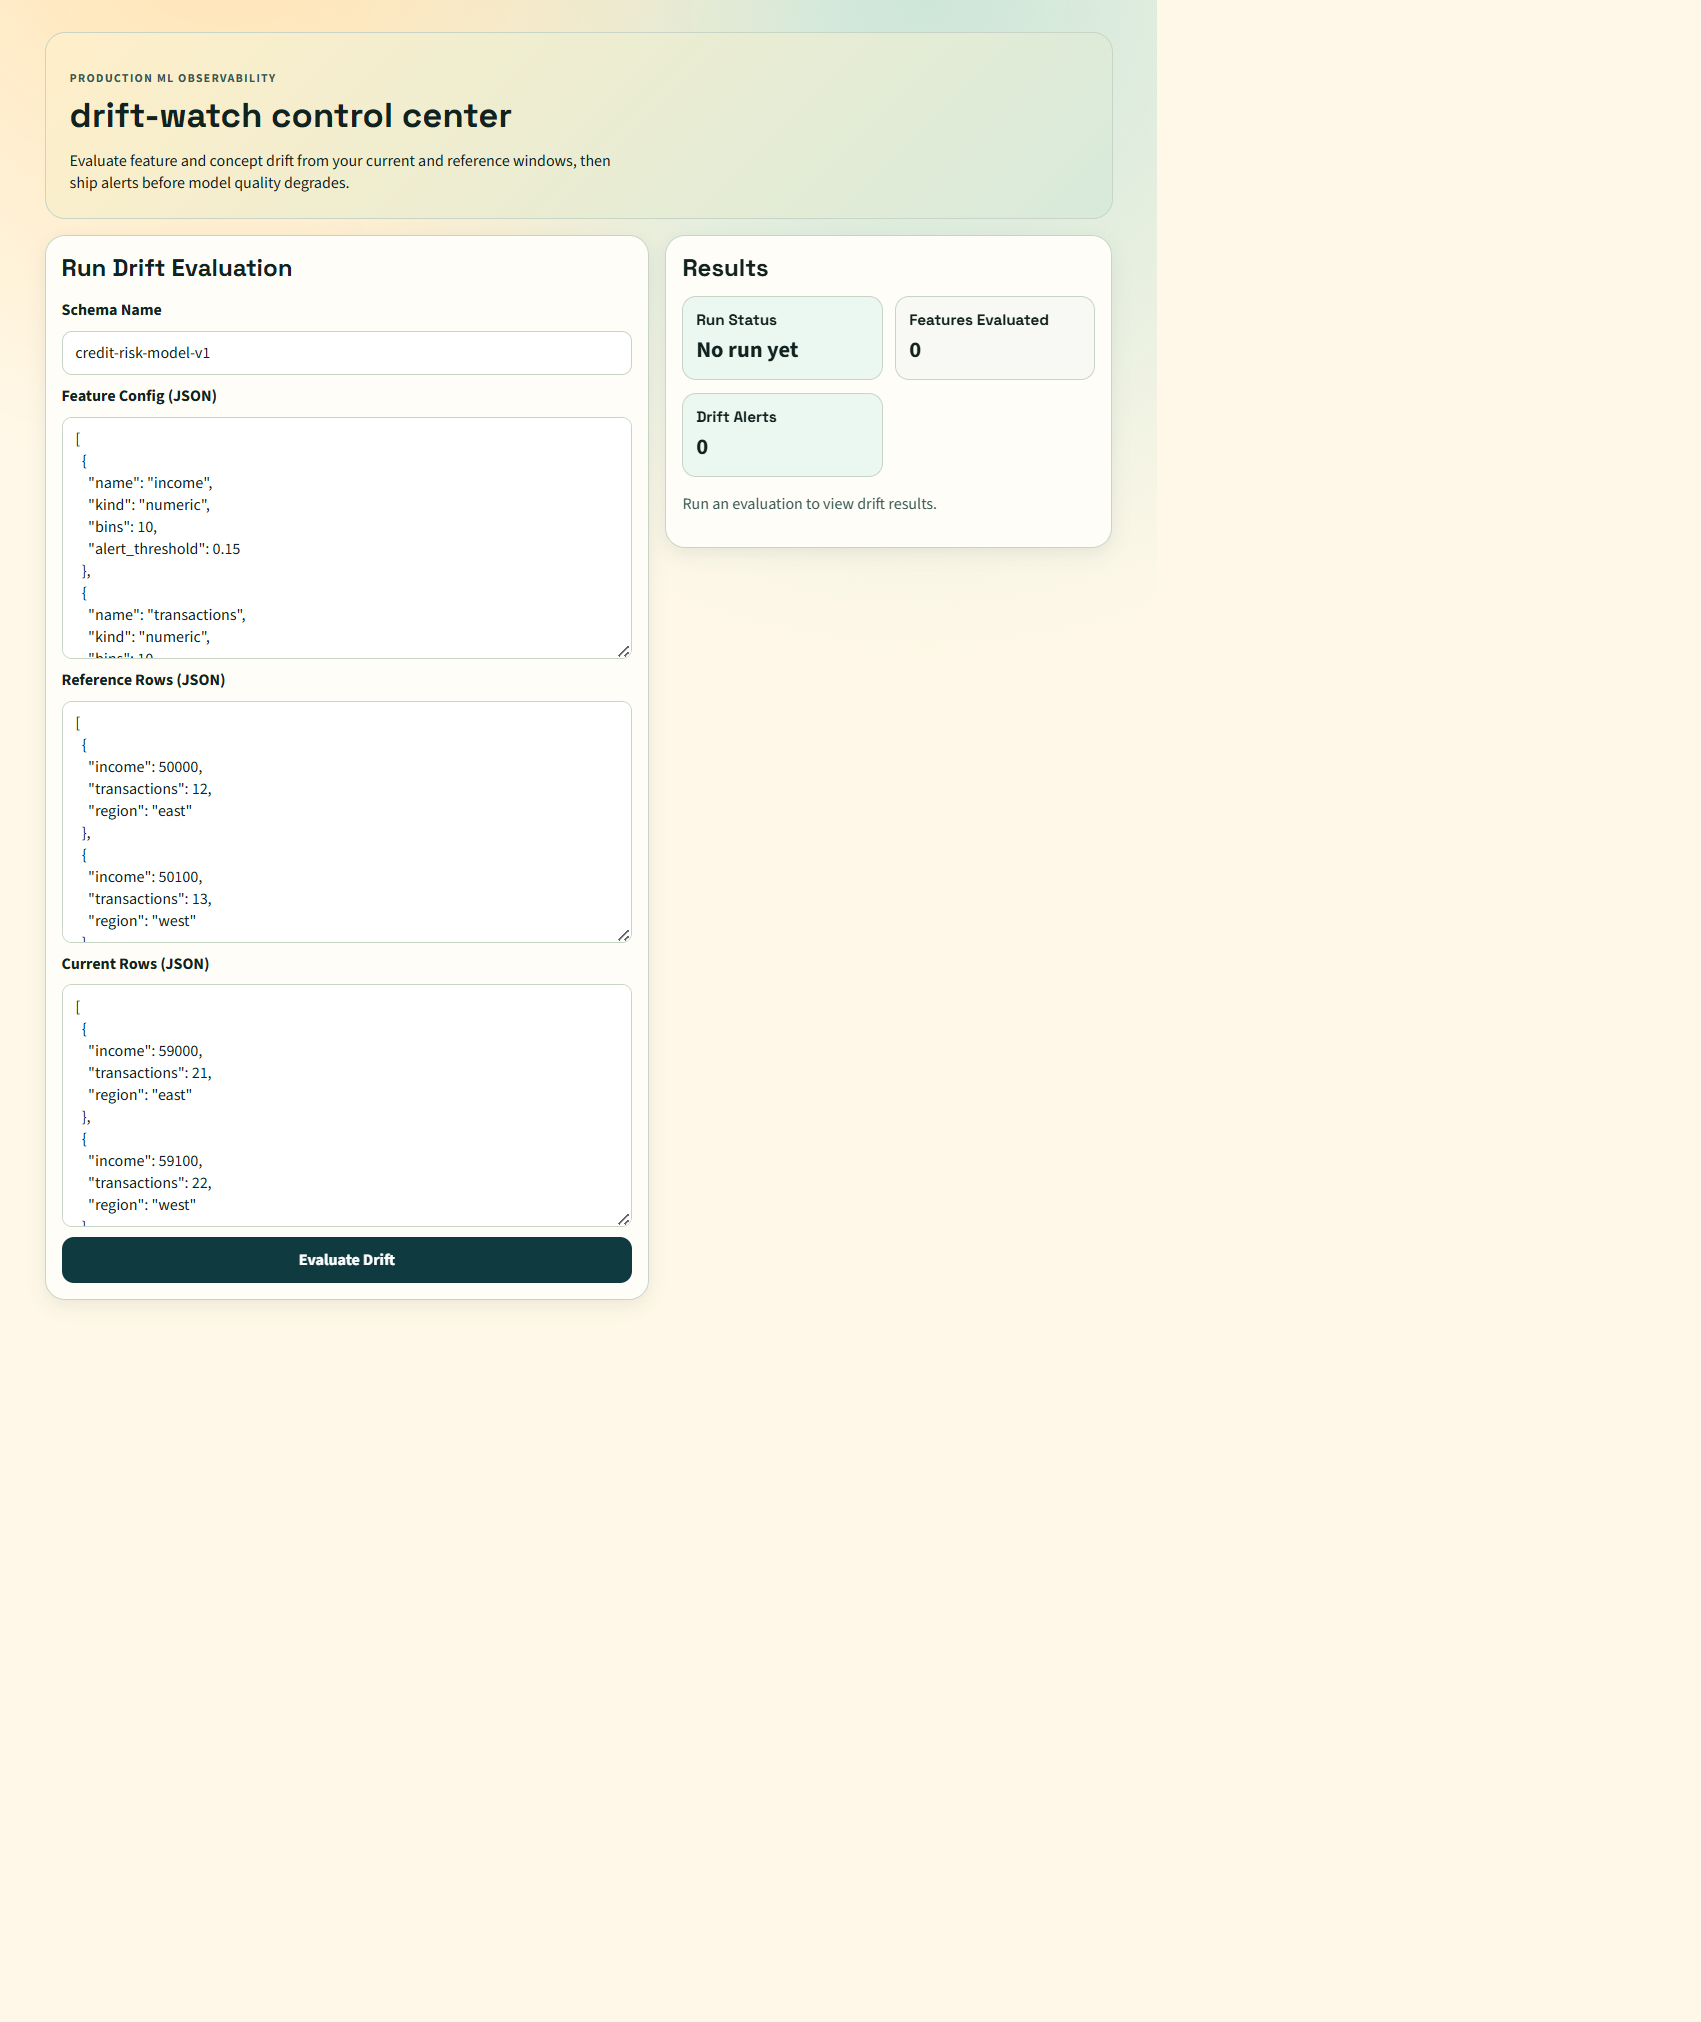
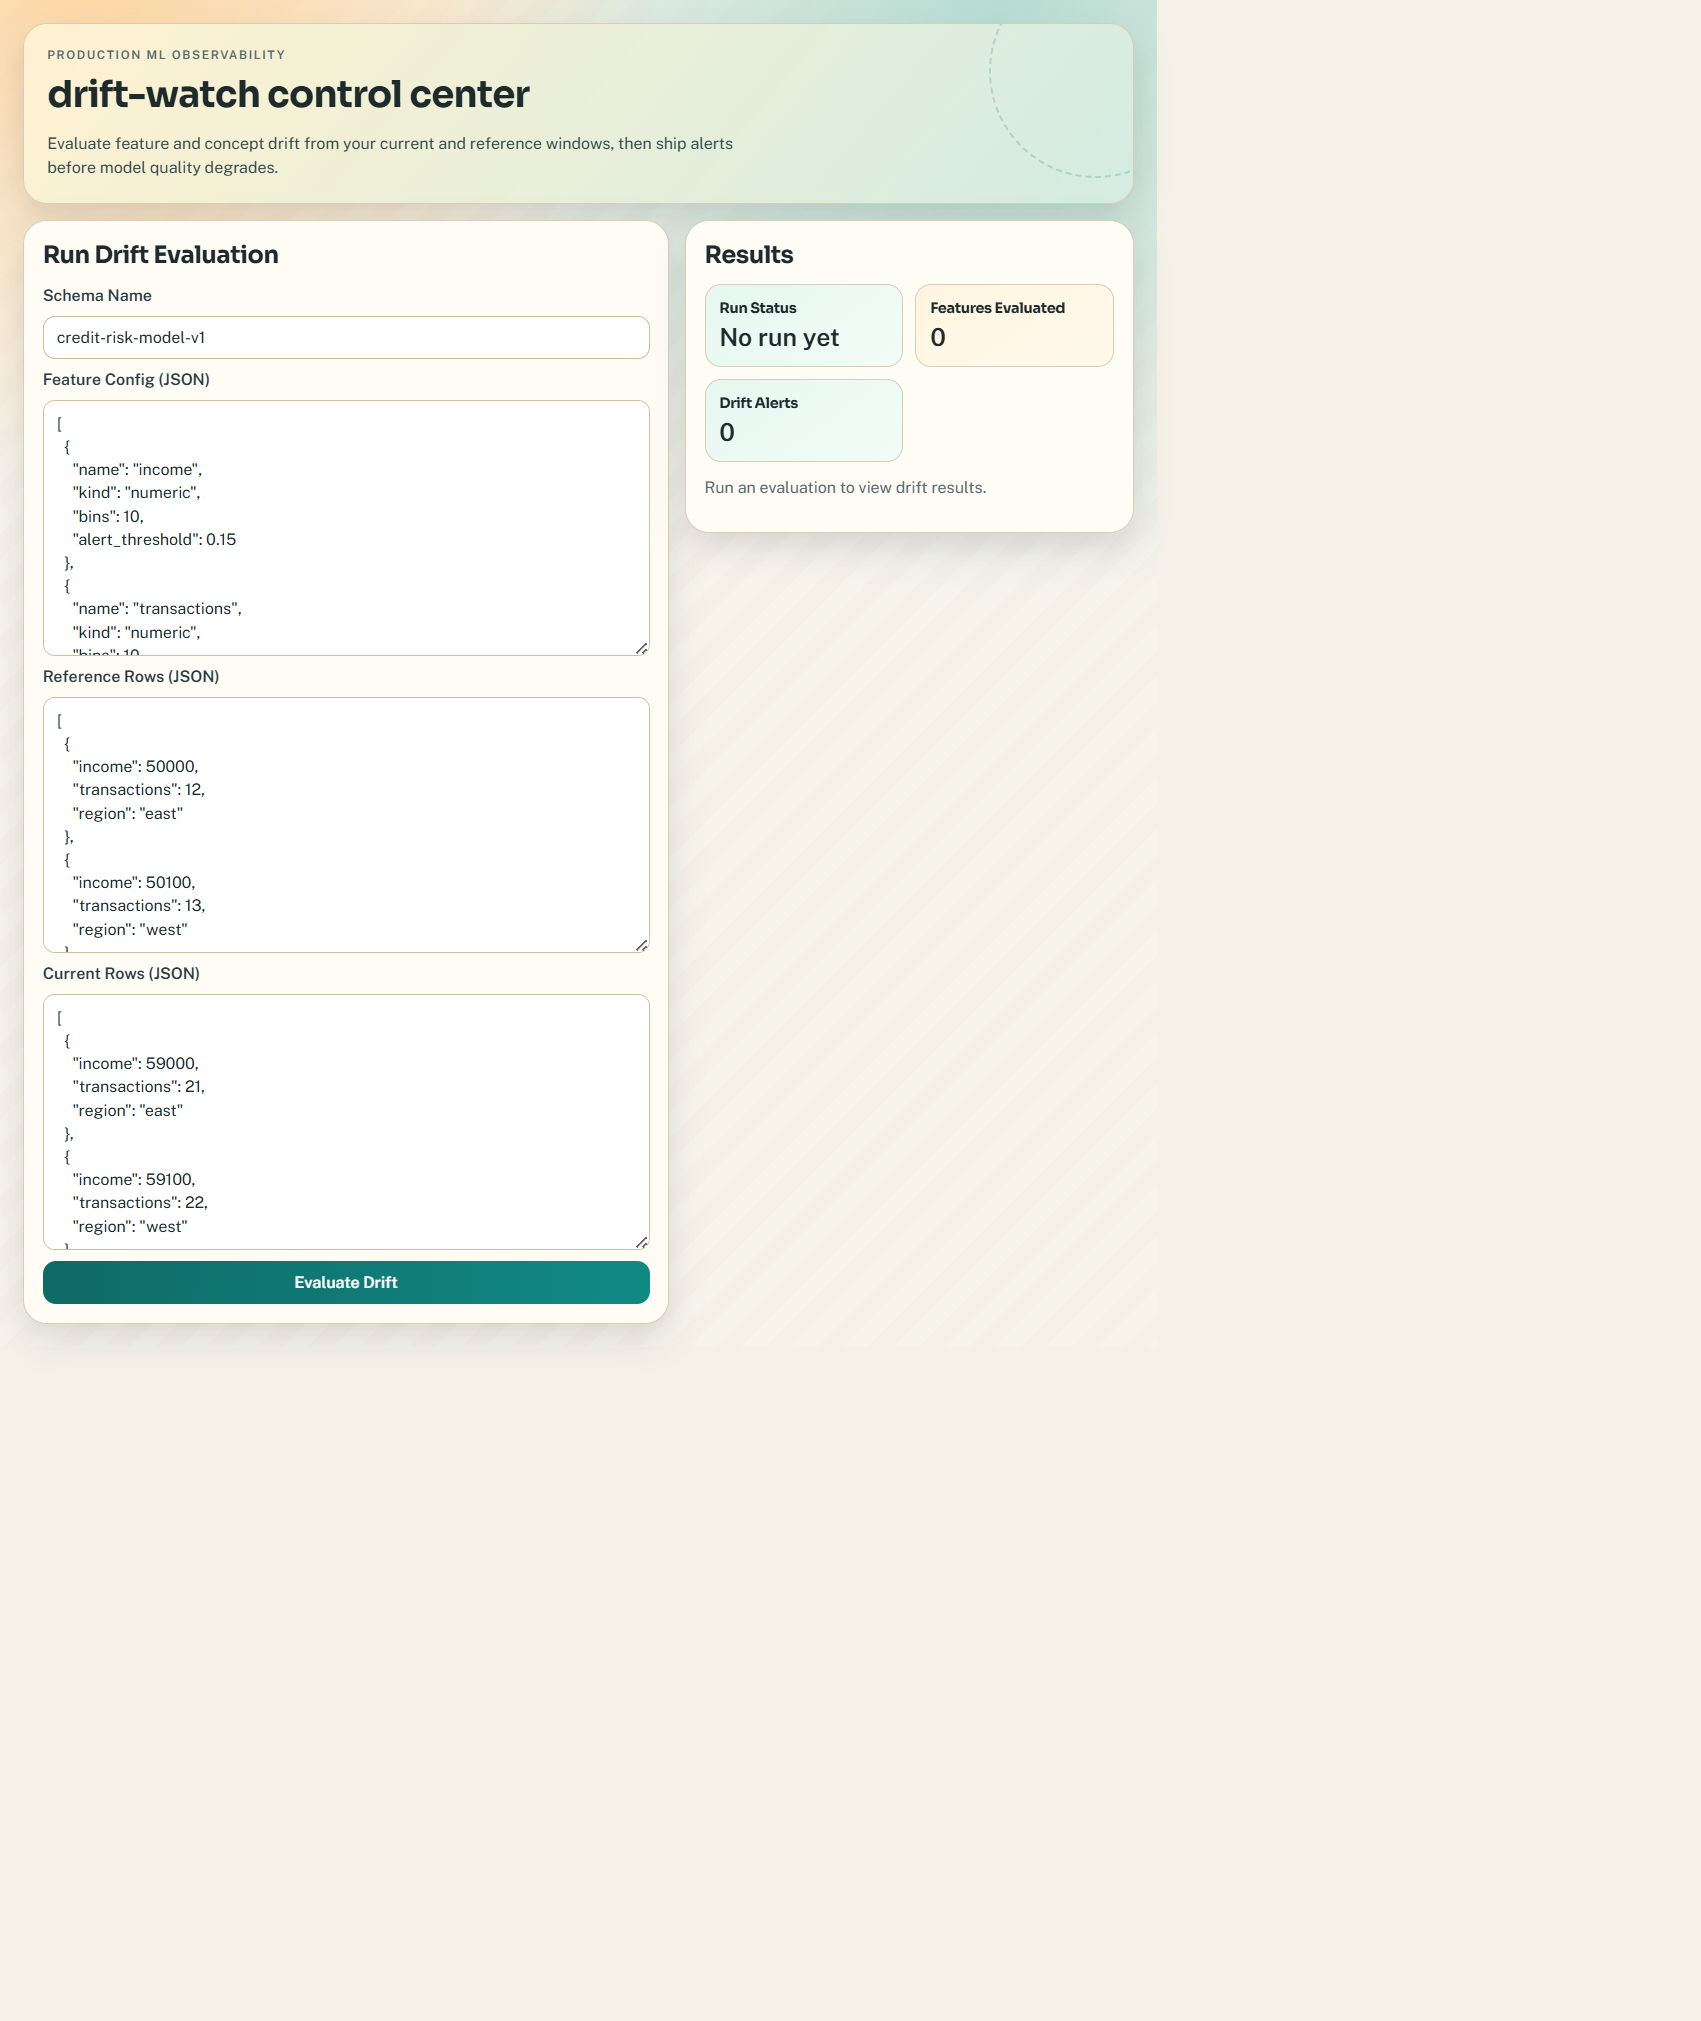
feat(ui): refresh styling and screenshots

Changed region(s): [[0.0, 0.0, 0.6855, 0.6858]]

diff --git a/frontend/src/styles.css b/frontend/src/styles.css
@@ -1,16 +1,19 @@
 /* Generated by GitHub Copilot */
-@import url("https://fonts.googleapis.com/css2?family=Space+Grotesk:wght@400;500;700&family=Source+Sans+3:wght@400;600;700&display=swap");
+@import url("https://fonts.googleapis.com/css2?family=Sora:wght@500;600;700;800&family=Public+Sans:wght@400;500;600&display=swap");
 
 :root {
-  --bg-main: #fff8e8;
-  --bg-panel: #fffdf7;
-  --bg-accent: #0f3a40;
-  --ink-main: #11221f;
-  --ink-soft: #355652;
-  --line: #c8d5c6;
-  --ok: #1d7a58;
-  --alert: #b44024;
-  --focus: #ff8b3d;
+  --dw-bg: #f5f1e8;
+  --dw-paper: #fffcf6;
+  --dw-card: #fffefb;
+  --dw-line: #d8cdb9;
+  --dw-ink: #1d2b2d;
+  --dw-muted: #55686b;
+  --dw-brand: #0f6a66;
+  --dw-brand-strong: #0b4e4b;
+  --dw-ok: #1d7f57;
+  --dw-alert: #b13f2c;
+  --dw-focus: #ff9a45;
+  --dw-shadow: 0 14px 34px rgb(29 43 45 / 14%);
 }
 
 * {
@@ -19,50 +22,78 @@
 
 body {
   margin: 0;
-  font-family: "Source Sans 3", sans-serif;
+  min-height: 100vh;
+  font-family: "Public Sans", sans-serif;
+  color: var(--dw-ink);
   background:
-    radial-gradient(circle at 20% -10%, #ffe1ae 0%, transparent 35%),
-    radial-gradient(circle at 80% 0%, #cde6d8 0%, transparent 40%),
-    var(--bg-main);
-  color: var(--ink-main);
+    radial-gradient(circle at 8% -6%, #ffd59f 0%, transparent 32%),
+    radial-gradient(circle at 86% 2%, #b7ddd2 0%, transparent 35%),
+    repeating-linear-gradient(135deg, rgb(255 255 255 / 18%) 0 18px, rgb(255 255 255 / 3%) 18px 36px),
+    var(--dw-bg);
 }
 
 h1,
 h2,
 h3 {
-  font-family: "Space Grotesk", sans-serif;
   margin: 0;
+  font-family: "Sora", sans-serif;
+  letter-spacing: -0.02em;
 }
 
 .app-shell {
-  max-width: 1100px;
+  max-width: 1160px;
   margin: 0 auto;
-  padding: 2rem 1rem 3rem;
+  padding: clamp(1rem, 2vw, 2rem);
+}
+
+.hero,
+.panel {
+  border: 1px solid var(--dw-line);
+  border-radius: 24px;
+  background: var(--dw-paper);
+  box-shadow: var(--dw-shadow);
 }
 
 .hero {
-  border: 1px solid var(--line);
-  background: linear-gradient(135deg, #ffefc9, #d8eadb);
-  border-radius: 20px;
-  padding: 1.5rem;
+  position: relative;
+  overflow: hidden;
+  padding: clamp(1.2rem, 2vw, 2rem);
+  background:
+    linear-gradient(130deg, rgb(255 241 206 / 95%), rgb(208 234 224 / 92%)),
+    var(--dw-paper);
+  animation: dw-rise 0.55s ease-out both;
+}
+
+.hero::after {
+  content: "";
+  position: absolute;
+  right: -70px;
+  top: -60px;
+  width: 210px;
+  height: 210px;
+  border-radius: 999px;
+  border: 2px dashed rgb(15 106 102 / 20%);
 }
 
 .hero .eyebrow {
+  margin: 0;
   text-transform: uppercase;
-  letter-spacing: 0.1em;
-  font-size: 0.75rem;
+  letter-spacing: 0.14em;
+  font-size: 0.74rem;
   font-weight: 700;
-  color: var(--ink-soft);
+  color: var(--dw-muted);
 }
 
 .hero h1 {
   margin-top: 0.4rem;
-  font-size: clamp(1.8rem, 3vw, 2.6rem);
+  font-size: clamp(1.85rem, 3.2vw, 2.95rem);
 }
 
 .hero p {
-  margin: 0.8rem 0 0;
-  max-width: 70ch;
+  margin: 0.85rem 0 0;
+  max-width: 72ch;
+  color: #32484a;
+  line-height: 1.5;
 }
 
 main {
@@ -72,21 +103,27 @@ main {
 }
 
 .panel {
-  border: 1px solid var(--line);
-  border-radius: 20px;
-  background: var(--bg-panel);
-  padding: 1rem;
-  box-shadow: 0 6px 18px rgb(17 34 31 / 8%);
+  padding: clamp(0.95rem, 1.6vw, 1.3rem);
+  animation: dw-rise 0.5s ease-out both;
+}
+
+main .panel:nth-of-type(1) {
+  animation-delay: 0.06s;
+}
+
+main .panel:nth-of-type(2) {
+  animation-delay: 0.14s;
 }
 
 .drift-form {
   display: grid;
-  gap: 0.6rem;
+  gap: 0.68rem;
   margin-top: 1rem;
 }
 
 label {
   font-weight: 700;
+  color: #263c3e;
 }
 
 input,
@@ -98,116 +135,157 @@ button {
 input,
 textarea {
   width: 100%;
-  border: 1px solid var(--line);
-  border-radius: 10px;
-  padding: 0.65rem 0.8rem;
+  border: 1px solid #cfbe9f;
+  border-radius: 12px;
+  padding: 0.7rem 0.82rem;
   background: #fff;
-  color: var(--ink-main);
+  color: var(--dw-ink);
 }
 
-input:focus,
-textarea:focus,
-button:focus {
-  outline: 3px solid var(--focus);
+textarea {
+  line-height: 1.45;
+  resize: vertical;
+}
+
+input:focus-visible,
+textarea:focus-visible,
+button:focus-visible {
+  outline: 3px solid var(--dw-focus);
   outline-offset: 2px;
 }
 
 button {
-  border: none;
-  border-radius: 12px;
-  background: var(--bg-accent);
+  border: 0;
+  border-radius: 13px;
+  background: linear-gradient(95deg, var(--dw-brand), #118a84);
   color: #fff;
-  padding: 0.75rem 1rem;
+  padding: 0.76rem 1rem;
   font-weight: 700;
   cursor: pointer;
+  transition: transform 0.18s ease, box-shadow 0.18s ease;
+}
+
+button:hover:not(:disabled) {
+  transform: translateY(-1px);
+  box-shadow: 0 10px 18px rgb(15 106 102 / 24%);
 }
 
 button:disabled {
+  opacity: 0.68;
   cursor: not-allowed;
-  opacity: 0.7;
 }
 
 .error-banner {
-  margin-top: 0.8rem;
-  padding: 0.6rem 0.8rem;
-  border: 1px solid #d9a69b;
-  border-radius: 10px;
-  background: #fff0ed;
-  color: #7e2812;
+  margin-top: 0.88rem;
+  padding: 0.62rem 0.82rem;
+  border: 1px solid #d7a18f;
+  border-radius: 11px;
+  background: #fff1ed;
+  color: #8a2711;
 }
 
 .metrics-grid {
   display: grid;
-  grid-template-columns: repeat(auto-fit, minmax(180px, 1fr));
-  gap: 0.8rem;
-  margin-top: 0.8rem;
+  grid-template-columns: repeat(auto-fit, minmax(165px, 1fr));
+  gap: 0.75rem;
+  margin-top: 0.9rem;
 }
 
 .metric-card {
-  border-radius: 14px;
-  padding: 0.8rem;
-  border: 1px solid var(--line);
+  border-radius: 16px;
+  padding: 0.86rem;
+  border: 1px solid var(--dw-line);
+  background: var(--dw-card);
 }
 
 .metric-card h3 {
-  font-size: 0.95rem;
+  font-size: 0.9rem;
 }
 
 .metric-card p {
   margin: 0.35rem 0 0;
-  font-size: 1.4rem;
+  font-size: 1.55rem;
   font-weight: 700;
 }
 
 .metric-card--ok {
-  background: #ebf8f2;
+  background: linear-gradient(145deg, #e6f8f0, #f2fcf7);
 }
 
 .metric-card--alert {
-  background: #fff0ed;
+  background: linear-gradient(145deg, #ffe9e3, #fff5f2);
 }
 
 .metric-card--neutral {
-  background: #f8f9f4;
+  background: linear-gradient(145deg, #fff5df, #fff9ed);
 }
 
 .table-wrap {
   overflow-x: auto;
   margin-top: 1rem;
+  border: 1px solid #d9ccb6;
+  border-radius: 14px;
 }
 
 table {
   width: 100%;
   border-collapse: collapse;
+  background: #fff;
 }
 
 th,
 td {
   text-align: left;
-  border-bottom: 1px solid var(--line);
-  padding: 0.55rem;
+  border-bottom: 1px solid #e9ddca;
+  padding: 0.62rem;
+  font-size: 0.92rem;
 }
 
 th {
-  font-family: "Space Grotesk", sans-serif;
-  font-size: 0.9rem;
+  font-family: "Sora", sans-serif;
+  font-size: 0.84rem;
+  text-transform: uppercase;
+  letter-spacing: 0.03em;
+  color: #345253;
 }
 
 .status-ok {
-  color: var(--ok);
+  color: var(--dw-ok);
 }
 
 .status-alert {
-  color: var(--alert);
+  color: var(--dw-alert);
 }
 
 .placeholder {
-  color: var(--ink-soft);
+  color: var(--dw-muted);
 }
 
-@media (width >= 900px) {
+@keyframes dw-rise {
+  from {
+    opacity: 0;
+    transform: translateY(14px);
+  }
+
+  to {
+    opacity: 1;
+    transform: translateY(0);
+  }
+}
+
+@media (width >= 940px) {
   main {
-    grid-template-columns: 1.15fr 0.85fr;
+    grid-template-columns: 1.18fr 0.82fr;
     align-items: start;
+  }
+}
+
+@media (width <= 700px) {
+  .hero {
+    border-radius: 18px;
+  }
+
+  .panel {
+    border-radius: 18px;
   }
 }
